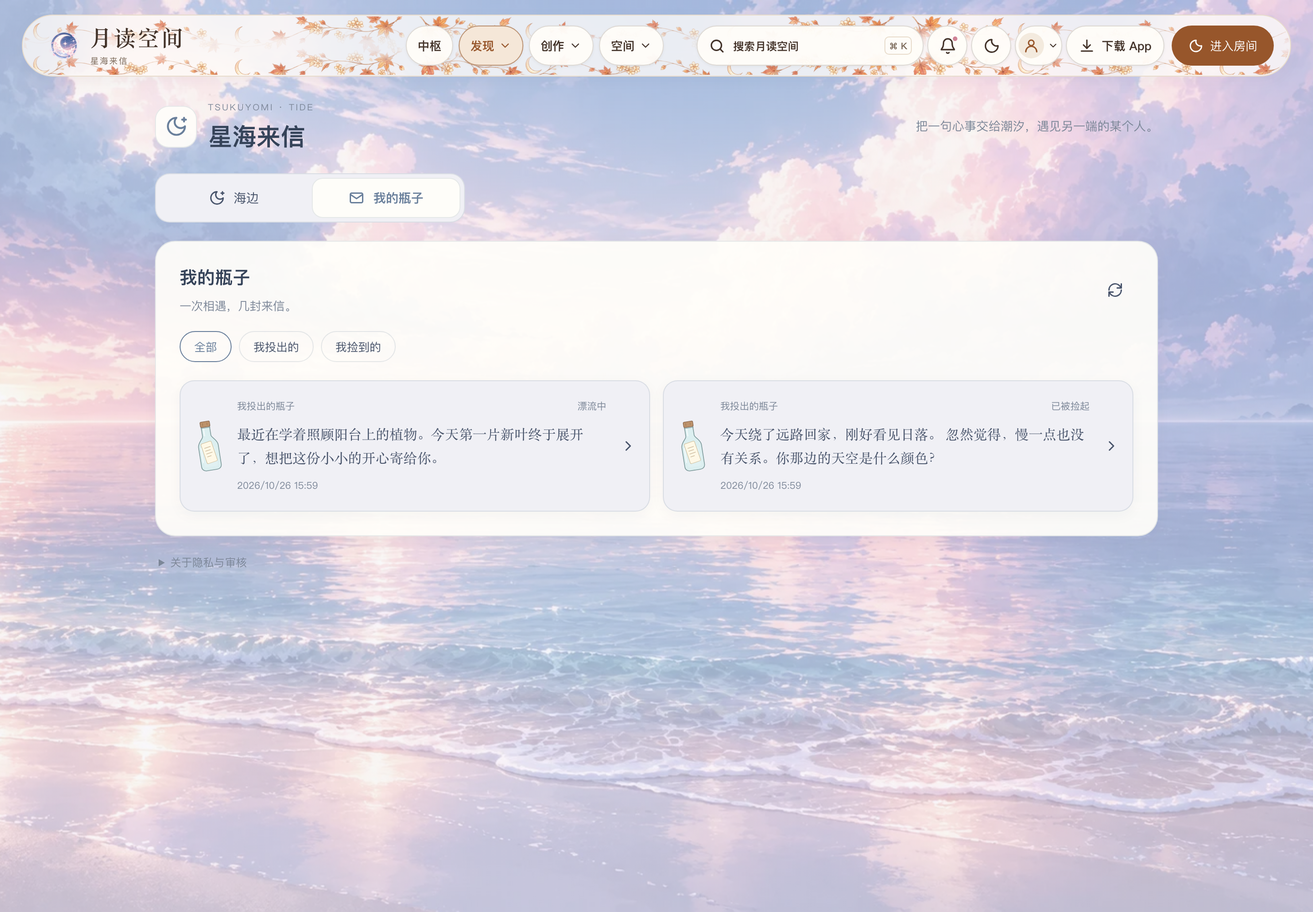
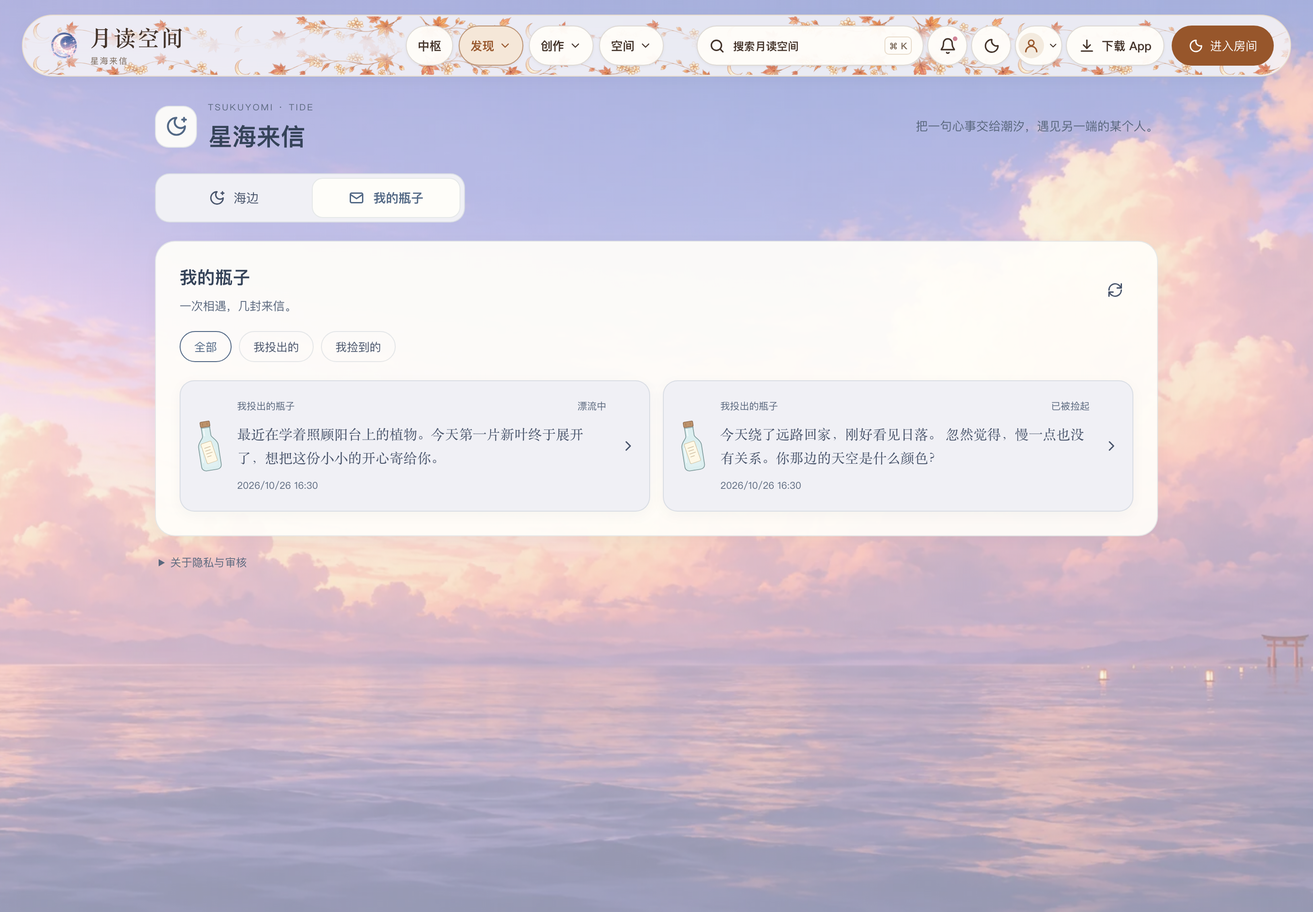
fix(drift): support light and dark shores with softer reflections

diff --git a/src/frontend/styles/routes/drift.css b/src/frontend/styles/routes/drift.css
@@ -1,10 +1,10 @@
-.page.drift-page { --drift-surface: var(--ts-editorial-surface,var(--ts-surface-strong)); --drift-soft: var(--ts-editorial-low,var(--ts-bg-soft)); --drift-paper: #fffaf0; --drift-paper-ink: #51483e; box-sizing: border-box; width: 100%; max-width: 1160px; margin: auto; padding: 110px 30px 36px; color: var(--ts-text); }
+.page.drift-page { --drift-surface: var(--ts-editorial-surface,var(--ts-surface-strong)); --drift-soft: var(--ts-editorial-low,var(--ts-bg-soft)); --drift-paper: #fffaf0; --drift-paper-sheet: #fffdf5; --drift-paper-ink: #51483e; --drift-paper-muted: #796750; --drift-paper-border: #b7a38355; --drift-paper-rule: #b7a38330; --drift-paper-reply: #ffffff80; --drift-paper-button: #fbf5e9; --drift-paper-hover: #eee4d2; --drift-paper-notice: #f3e9d8; --drift-paper-status: #86602d; --drift-paper-shadow: #cabca21a; --drift-action-ink: #fff; box-sizing: border-box; width: 100%; max-width: 1160px; margin: auto; padding: 110px 30px 36px; color: var(--ts-text); }
 .drift-page *, .drift-page *::before, .drift-page *::after { box-sizing: border-box; }
 .drift-page :is(h1,h2,h3,p) { margin: 0; }
 .drift-page button { display: inline-flex; align-items: center; justify-content: center; gap: 9px; min-height: 44px; padding: 10px 16px; border: 1px solid var(--ts-border); border-radius: 12px; background: var(--drift-surface); color: inherit; font: inherit; font-size: .86rem; cursor: pointer; }
 .drift-page button:hover:not(:disabled) { background: var(--drift-soft); }
 .drift-page button:disabled { opacity: .5; cursor: default; }
-.drift-page .drift-primary { border-color: transparent; background: var(--ts-accent); color: white; font-weight: 600; }
+.drift-page .drift-primary { border-color: transparent; background: var(--ts-accent); color: var(--drift-action-ink); font-weight: 600; }
 .drift-page .drift-primary:hover:not(:disabled) { background: color-mix(in srgb,var(--ts-accent),black 12%); }
 .drift-page :is(button,a,summary,textarea):focus-visible { outline: 2px solid var(--ts-accent); outline-offset: 3px; }
 .drift-header { display: flex; align-items: center; gap: 12px; margin-bottom: 22px; }
@@ -60,54 +60,54 @@
 .drift-rules { margin: 18px 4px 0; color: var(--ts-muted); font-size: .75rem; line-height: 1.8; }
 .drift-rules summary { cursor: pointer; width: fit-content; }
 .drift-rules p { max-width: 720px; margin-top: 10px; }
-.drift-bottle-dialog { width: min(570px,calc(100vw - 36px)); max-height: min(820px,calc(var(--ts-visual-height,100dvh) - 32px)); padding: 0; border: 1px solid #b9a99266; border-radius: 22px; background: var(--drift-paper); color: var(--drift-paper-ink); box-shadow: 0 25px 100px #18263c40; overflow: hidden; }
+.drift-bottle-dialog { --ts-text: var(--drift-paper-ink); --ts-text-strong: var(--drift-paper-ink); --ts-muted: var(--drift-paper-muted); width: min(570px,calc(100vw - 36px)); max-height: min(820px,calc(var(--ts-visual-height,100dvh) - 32px)); padding: 0; border: 1px solid var(--drift-paper-border); border-radius: 22px; background: var(--drift-paper); color: var(--drift-paper-ink); box-shadow: 0 25px 100px #18263c40; overflow: hidden; }
 .drift-bottle-dialog[open] { display: flex; flex-direction: column; }
 .drift-bottle-dialog::backdrop { background: #1c2c3e8c; backdrop-filter: blur(5px); }
-.drift-dialog-header { flex-shrink: 0; display: flex; justify-content: space-between; align-items: center; gap: 12px; padding: 22px 26px 17px; border-bottom: 1px solid #9c8b711f; }
+.drift-dialog-header { flex-shrink: 0; display: flex; justify-content: space-between; align-items: center; gap: 12px; padding: 22px 26px 17px; border-bottom: 1px solid var(--drift-paper-border); }
 .drift-dialog-header h2 { font-family: var(--ts-font-serif); font-weight: 500; font-size: 1.22rem; }
-.drift-dialog-header .drift-eyebrow { color: #9b8b76; font-size: .52rem; }
-.drift-bottle-dialog button:not(.drift-primary) { color: #685b49; background: #fbf5e9; border-color: #b9a99259; }
-.drift-bottle-dialog button:not(.drift-primary):hover:not(:disabled) { background: #eee4d2; }
+.drift-dialog-header .drift-eyebrow { color: var(--drift-paper-muted); font-size: .52rem; }
+.drift-bottle-dialog button:not(.drift-primary) { color: var(--drift-paper-ink); background: var(--drift-paper-button); border-color: var(--drift-paper-border); }
+.drift-bottle-dialog button:not(.drift-primary):hover:not(:disabled) { background: var(--drift-paper-hover); }
 .drift-bottle-dialog .drift-icon-button { border: 0; background: transparent; }
-.drift-dialog-notice { padding: 10px 25px; border-bottom: 1px solid #9c8b7126; background: #f3e9d8; color: #7f6845; font-size: .78rem; line-height: 1.6; }
+.drift-dialog-notice { padding: 10px 25px; border-bottom: 1px solid var(--drift-paper-border); background: var(--drift-paper-notice); color: var(--drift-paper-ink); font-size: .78rem; line-height: 1.6; }
 .drift-found { display: flex; flex-direction: column; align-items: center; gap: 25px; padding: 30px 30px 40px; text-align: center; }
-.drift-found p { font-size: .9rem; line-height: 1.8; color: #8e7d68; }
+.drift-found p { font-size: .9rem; line-height: 1.8; color: var(--drift-paper-muted); }
 .drift-found-glow { display: grid; place-items: center; width: 220px; height: 230px; border-radius: 50%; background: radial-gradient(ellipse,#fffdf6,#e6e0ce99 48%,transparent 70%); }
 .drift-found-glow > svg { width: 92px; height: 165px; transform: rotate(28deg); color: #789a99; filter: drop-shadow(0 10px 8px #89764e20); }
 .drift-letter-scroll { min-height: 0; overflow-y: auto; overscroll-behavior: contain; scrollbar-width: thin; padding: 22px 26px 15px; }
 .drift-letter-byline { display: flex; align-items: center; gap: 12px; margin-bottom: 18px; }
 .drift-letter-byline > svg { width: 24px; height: 44px; color: #88a39e; transform: rotate(-12deg); }
 .drift-letter-byline > div { display: grid; gap: 5px; flex: 1; min-width: 0; }
-.drift-letter-byline span { font-size: .8rem; overflow-wrap: anywhere; }.drift-letter-byline time { font-size: .65rem; color: #a18f77; }
-.drift-paper { min-height: 170px; padding: 22px 22px 25px; background: repeating-linear-gradient(transparent 0,transparent 35px,#b7a38321 35px,#b7a38321 36px),#fffdf5; border: 1px solid #b7a38336; border-radius: 3px 3px 13px 3px; box-shadow: 2px 4px 0 #cabca21a; }
+.drift-letter-byline span { font-size: .8rem; overflow-wrap: anywhere; }.drift-letter-byline time { font-size: .65rem; color: var(--drift-paper-muted); }
+.drift-paper { min-height: 170px; padding: 22px 22px 25px; background: repeating-linear-gradient(transparent 0,transparent 35px,var(--drift-paper-rule) 35px,var(--drift-paper-rule) 36px),var(--drift-paper-sheet); border: 1px solid var(--drift-paper-border); border-radius: 3px 3px 13px 3px; box-shadow: 2px 4px 0 var(--drift-paper-shadow); }
 .drift-content { white-space: pre-wrap; overflow-wrap: anywhere; font-family: var(--ts-font-serif); font-size: .98rem; line-height: 2.25; }
-.drift-thread-note { margin: 16px auto 0 !important; max-width: 340px; font-size: .78rem; line-height: 1.8; color: #95846d; text-align: center; }
+.drift-thread-note { margin: 16px auto 0 !important; max-width: 340px; font-size: .78rem; line-height: 1.8; color: var(--drift-paper-muted); text-align: center; }
 .drift-correspondence { margin-top: 28px; }
-.drift-correspondence > header { padding-bottom: 12px; border-bottom: 1px solid #b7a38336; }
-.drift-correspondence h3 { display: flex; align-items: baseline; gap: 10px; color: #8f7c62; font-size: .82rem; font-weight: 500; }
-.drift-correspondence h3 small { font-size: .7rem; opacity: .65; }
-.drift-reply { margin-top: 14px; padding: 17px 18px; border: 1px solid #c7bda83d; border-radius: 3px; background: #ffffff69; }
-.drift-reply header { display: flex; justify-content: space-between; align-items: baseline; gap: 10px; margin-bottom: 10px; color: #95846d; font-size: .73rem; }
+.drift-correspondence > header { padding-bottom: 12px; border-bottom: 1px solid var(--drift-paper-border); }
+.drift-correspondence h3 { display: flex; align-items: baseline; gap: 10px; color: var(--drift-paper-muted); font-size: .82rem; font-weight: 500; }
+.drift-correspondence h3 small { font-size: .7rem; }
+.drift-reply { margin-top: 14px; padding: 17px 18px; border: 1px solid var(--drift-paper-border); border-radius: 3px; background: var(--drift-paper-reply); }
+.drift-reply header { display: flex; justify-content: space-between; align-items: baseline; gap: 10px; margin-bottom: 10px; color: var(--drift-paper-muted); font-size: .73rem; }
 .drift-reply time { font-size: .62rem; }
 .drift-reply .drift-content { font-size: .9rem; line-height: 1.9; }
-.drift-letter-status { display: inline-block; margin-top: 12px; font-size: .7rem; color: #9b7340; }
-.drift-reader-footer { flex-shrink: 0; border-top: 1px solid #b7a38326; padding: 16px 26px 8px; }
+.drift-letter-status { display: inline-block; margin-top: 12px; font-size: .7rem; color: var(--drift-paper-status); }
+.drift-reader-footer { flex-shrink: 0; border-top: 1px solid var(--drift-paper-rule); padding: 16px 26px 8px; }
 .drift-letter-actions { display: flex; align-items: center; justify-content: space-between; gap: 14px; flex-shrink: 0; padding: 0 0 8px; }
 .drift-letter-actions > button { min-width: 112px; }
-.drift-privacy { display: block; flex-shrink: 0; text-align: center; font-size: .6rem; color: #a18f77; padding: 5px 15px 14px; }
-.drift-letter-options, .drift-translation { margin-top: 20px; color: #9b8b76; font-size: .7rem; line-height: 1.8; }
+.drift-privacy { display: block; flex-shrink: 0; text-align: center; font-size: .6rem; color: var(--drift-paper-muted); padding: 5px 15px 14px; }
+.drift-letter-options, .drift-translation { margin-top: 20px; color: var(--drift-paper-muted); font-size: .7rem; line-height: 1.8; }
 .drift-letter-options summary, .drift-translation summary { width: fit-content; cursor: pointer; }
 .drift-actions { display: flex; flex-wrap: wrap; gap: 8px; margin: 14px 0; }
 .drift-actions button, .drift-actions a { font-size: .75rem; }
 .drift-actions a { align-self: center; color: inherit; }
 .drift-translation > :not(summary) { margin-top: 10px; }
-.drift-page .drift-new-letter { display: flex; margin: 18px auto 0; font-size: .74rem; color: #8b7556; }
+.drift-page .drift-new-letter { display: flex; margin: 18px auto 0; font-size: .74rem; color: var(--drift-paper-muted); }
 .drift-letter-form { display: flex; flex-direction: column; min-height: 0; padding: 22px 26px 18px; gap: 18px; overflow-y: auto; }
-.drift-writing-paper { display: flex; flex-direction: column; padding: 20px; border: 1px solid #b7a38336; background: #fffdf5; }
-.drift-writing-paper label { font-family: var(--ts-font-serif); font-size: .87rem; color: #a18f77; margin-bottom: 16px; }
-.drift-writing-paper textarea { display: block; width: 100%; min-height: 170px; max-height: 42dvh; padding: 0; border: 0; border-radius: 0; outline: none; color: var(--drift-paper-ink); font-family: var(--ts-font-serif); font-size: 1rem; line-height: 2.1; resize: vertical; background: repeating-linear-gradient(transparent 0,transparent 32.6px,#b7a38326 32.6px,#b7a38326 33.6px); }
-.drift-writing-paper textarea::placeholder { color: #b2a38b; }.drift-writing-paper small { align-self: flex-end; margin-top: 10px; font-size: .65rem; color: #a18f77; }
-.drift-reply-context { flex-shrink: 0; margin: 0; padding: 0 0 0 12px; border-left: 2px solid #b7a38366; color: #a18f77; font-family: var(--ts-font-serif); font-size: .78rem; line-height: 1.8; overflow: hidden; display: -webkit-box; -webkit-line-clamp: 2; -webkit-box-orient: vertical; }
+.drift-writing-paper { display: flex; flex-direction: column; padding: 20px; border: 1px solid var(--drift-paper-border); background: var(--drift-paper-sheet); }
+.drift-writing-paper label { font-family: var(--ts-font-serif); font-size: .87rem; color: var(--drift-paper-muted); margin-bottom: 16px; }
+.drift-writing-paper textarea { display: block; width: 100%; min-height: 170px; max-height: 42dvh; padding: 0; border: 0; border-radius: 0; outline: none; color: var(--drift-paper-ink); font-family: var(--ts-font-serif); font-size: 1rem; line-height: 2.1; resize: vertical; background: repeating-linear-gradient(transparent 0,transparent 32.6px,var(--drift-paper-rule) 32.6px,var(--drift-paper-rule) 33.6px); }
+.drift-writing-paper textarea::placeholder { color: var(--drift-paper-muted); }.drift-writing-paper small { align-self: flex-end; margin-top: 10px; font-size: .65rem; color: var(--drift-paper-muted); }
+.drift-reply-context { flex-shrink: 0; margin: 0; padding: 0 0 0 12px; border-left: 2px solid var(--drift-paper-border); color: var(--drift-paper-muted); font-family: var(--ts-font-serif); font-size: .78rem; line-height: 1.8; overflow: hidden; display: -webkit-box; -webkit-line-clamp: 2; -webkit-box-orient: vertical; }
 .drift-notice { padding: 12px 16px; margin-bottom: 14px !important; border: 1px solid var(--ts-border); border-radius: 12px; background: var(--drift-surface); font-size: .8rem; line-height: 1.7; }
 .drift-loading { padding: 35px; text-align: center; color: var(--ts-muted); }.drift-login { display: flex; justify-content: space-between; color: var(--ts-accent); text-decoration: none; }
 body:has(.drift-bottle-dialog[open]) { overflow: hidden; }
@@ -142,17 +142,32 @@ body:has(.drift-bottle-dialog[open]) :is(.site-pet-wrap,.site-music-drawer) { vi
 .is-keyboard-open .drift-bottle-dialog.is-writing .drift-reply-context { display: none; }
 
 /* Original fan background: a shore facing the film's rose/lavender mirror sea. */
-.page.drift-page { --ts-accent: #697f9b; --ts-text: #48546b; --ts-text-strong: #354359; --ts-muted: #7c8798; --ts-border: #75899d2e; --drift-surface: #fffefaed; --drift-soft: #f0f0f5; }
+.page.drift-page { --ts-accent: #526885; --ts-text: #48546b; --ts-text-strong: #354359; --ts-muted: #59677d; --ts-border: #75899d2e; --drift-surface: #fffefaed; --drift-soft: #f0f0f5; }
 .app-shell:has(.drift-page) { --ts-site-background: linear-gradient(rgb(244 243 249 / 50%),rgb(242 242 249 / 50%)),url('../../assets/drift/mirror-coast.webp') center / cover no-repeat; }
 .drift-ocean { background: linear-gradient(180deg,#e8eafa14,transparent 50%),url('../../assets/drift/mirror-coast.webp') center / cover no-repeat; }
 .drift-ocean-sky, .drift-ocean-beach, .drift-moonlight, .drift-wave { display: none; }
 .drift-ocean-water { inset: 0; border: 0; background: none; z-index: -1; }
-.drift-floating-bottle { bottom: 23%; left: 47%; width: 32px; height: 57px; }
-.drift-ocean-copy { color: #3c4964; text-shadow: 0 1px 14px #fff4e6a6; }
-.drift-ocean-copy .drift-eyebrow { color: #65718b; }
+.drift-floating-bottle { bottom: 12%; left: 85%; width: 26px; height: 46px; }
+.drift-ocean-copy { width: fit-content; max-width: 100%; border-radius: 0 0 28px 0; background: #fff8eeeb; color: #3c4964; text-shadow: none; }
+.drift-ocean-copy .drift-eyebrow { color: #58647c; }
 .drift-ocean-copy > p:last-child { color: #58647c; }
 .drift-shore-dock { background: #fff8eece; border-color: #fff9f2bd; }
-html[data-theme="dark"] .page.drift-page { --ts-text: #e0e3ee; --ts-text-strong: #f0edf6; --ts-muted: #a5b0c2; --ts-border: #b4bfdf29; --drift-surface: #222b3bed; --drift-soft: #293145; }
-html[data-theme="dark"] .app-shell:has(.drift-page) { --ts-site-background: linear-gradient(#192438ed,#202c42f0),url('../../assets/drift/mirror-coast.webp') center / cover no-repeat; }
+html[data-theme="dark"] .page.drift-page { --ts-accent: #b5cbe6; --drift-action-ink: #182334; --drift-paper: #1d2839; --drift-paper-sheet: #243247; --drift-paper-ink: #eee8dc; --drift-paper-muted: #c1c5cf; --drift-paper-border: #b8c7dc44; --drift-paper-rule: #b8c7dc1c; --drift-paper-reply: #263448; --drift-paper-button: #2b3a50; --drift-paper-hover: #35485f; --drift-paper-notice: #354054; --drift-paper-status: #e4c597; --drift-paper-shadow: #080f192e; --ts-text: #e0e3ee; --ts-text-strong: #f0edf6; --ts-muted: #a5b0c2; --ts-border: #b4bfdf29; --drift-surface: #222b3bed; --drift-soft: #293145; }
+html[data-theme="dark"] .app-shell:has(.drift-page) { --ts-site-background: linear-gradient(#101a2c80,#101a2c99),url('../../assets/drift/mirror-coast-night.webp') center / cover no-repeat; }
 
 body:has(.drift-page) :is(.site-pet-wrap,.site-music-drawer) { visibility: hidden; pointer-events: none; }
+
+/* Night artwork and controls share the same theme as the collection and letters. */
+html[data-theme="dark"] .drift-ocean { background: url('../../assets/drift/mirror-coast-night.webp') center / cover no-repeat; border-color: #b4bfdf44; }
+html[data-theme="dark"] .drift-ocean-copy { background: #152238eb; color: #e8edf7; }
+html[data-theme="dark"] .drift-ocean-copy :is(h2,p) { color: inherit; }
+html[data-theme="dark"] .drift-ocean-copy .drift-eyebrow { color: #b9c8df; }
+html[data-theme="dark"] .drift-shore-dock { background: #1d2b40ed; border-color: #b4bfdf44; }
+html[data-theme="dark"] .drift-page .drift-dock-action { color: #e0e7f3; }
+html[data-theme="dark"] .drift-page .drift-dock-action:hover:not(:disabled) { background: #34445b; }
+html[data-theme="dark"] .drift-dock-icon { color: #b5cce1; }
+html[data-theme="dark"] .drift-dock-pick .drift-dock-icon { color: #e2c68d; background: radial-gradient(ellipse,#d5b66b26,transparent 70%); }
+html[data-theme="dark"] .drift-found-glow { background: radial-gradient(ellipse,#50698080,#30465f55 48%,transparent 70%); }
+
+/* The low horizon leaves the phone shore to the action dock. */
+@media (max-width: 860px) { .drift-floating-bottle { display: none; } }

diff --git a/tests/e2e/drift-themes.spec.js b/tests/e2e/drift-themes.spec.js
@@ -1,0 +1,85 @@
+const { test, expect } = require('../e2e-fixtures.cjs');
+
+async function switchTheme(page, mode) {
+    const label = mode === 'dark' ? '切换深色主题' : '切换浅色主题';
+    const toolbar = page.locator('.site-theme-button');
+    if (await toolbar.isVisible()) await toolbar.click();
+    else {
+        await page.getByRole('button', { name: '账号菜单', exact: true }).click();
+        await page.locator('#site-navigation').getByRole('button', { name: label, exact: true }).click();
+        await page.locator('#site-navigation .site-nav-drawer-head button').click();
+    }
+    await expect(page.locator('html')).toHaveAttribute('data-theme', mode);
+}
+
+async function contrast(foreground, background, pseudo) {
+    return foreground.evaluate((node, { selector, pseudo }) => {
+        const rgb = value => value.match(/[\d.]+/g).slice(0, 3).map(Number);
+        const luminance = value => rgb(value).map(v => {
+            v /= 255;
+            return v <= 0.04045 ? v / 12.92 : ((v + 0.055) / 1.055) ** 2.4;
+        }).reduce((sum, v, i) => sum + v * [0.2126, 0.7152, 0.0722][i], 0);
+        const ink = luminance(getComputedStyle(node, pseudo).color);
+        const paper = luminance(getComputedStyle(node.closest(selector)).backgroundColor);
+        return (Math.max(ink, paper) + 0.05) / (Math.min(ink, paper) + 0.05);
+    }, { selector: background, pseudo });
+}
+
+test('light and dark shores, letters and drafts follow the selected theme', async ({ page, browser, baseURL }, info) => {
+    test.setTimeout(45_000);
+    const headers = { Origin: new URL(baseURL).origin, 'X-Requested-With': 'XMLHttpRequest' };
+    const sender = await browser.newContext({ baseURL });
+    const login = async (request, username) => {
+        expect((await request.post('/api/auth/login', { headers, data: { username, password: 'mem0-test-password' } })).ok()).toBe(true);
+    };
+    let id;
+    const content = `今天海边很安静，想听听远方的声音。 ${info.project.name}-${Date.now()}`;
+    try {
+        await login(sender.request, 'reply-owner');
+        const sent = await sender.request.post('/api/drift', { headers, data: { content } });
+        expect(sent.status()).toBe(201);
+        id = (await sent.json()).data.id;
+        await login(page.request, 'reply-reader');
+        const picked = await page.request.post('/api/drift/pick', { headers, data: {} });
+        expect((await picked.json()).data.id).toBe(id);
+        expect((await page.request.post(`/api/drift/${id}/replies`, { headers, data: { content: '这边也起风了。愿你今晚睡个好觉。' } })).status()).toBe(201);
+        await page.addInitScript(() => { localStorage.setItem('lang', 'zh'); localStorage.setItem('tsukuyomi_theme', 'light'); });
+        await page.goto('/drift');
+        await expect(page.locator('#boot-splash')).toHaveCount(0);
+        const draft = '还没寄出的心事，切换主题以后继续写。';
+        let dayImage;
+        for (const mode of ['light', 'dark', 'light']) {
+            if (await page.locator('html').getAttribute('data-theme') !== mode) await switchTheme(page, mode);
+            const artwork = await page.locator('.drift-ocean').evaluate(async node => {
+                const style = getComputedStyle(node);
+                const url = style.backgroundImage.match(/url\(["']?([^"')]+)/)[1];
+                const image = new Image(); image.src = url; await image.decode();
+                return { url, width: image.naturalWidth };
+            });
+            expect(artwork.width).toBeGreaterThan(1000);
+            if (mode === 'light') {
+                if (!dayImage) dayImage = artwork.url;
+                expect(artwork.url).toBe(dayImage);
+            } else expect(artwork.url).not.toBe(dayImage);
+            await page.getByRole('tab', { name: '我的瓶子', exact: true }).click();
+            await page.locator('.drift-list-item').filter({ hasText: content }).click();
+            await expect(page.locator('.drift-original-paper')).toHaveText(content);
+            await expect(page.locator('.drift-reply')).toContainText('愿你今晚睡个好觉。');
+            expect(await contrast(page.locator('.drift-original-paper .drift-content'), '.drift-paper')).toBeGreaterThanOrEqual(4.5);
+            expect(await contrast(page.locator('.drift-letter-byline time'), '.drift-bottle-dialog')).toBeGreaterThanOrEqual(4.5);
+            expect(await contrast(page.locator('.drift-reader-footer .drift-primary'), '.drift-primary')).toBeGreaterThanOrEqual(4.5);
+            await page.getByRole('button', { name: '关闭纸条', exact: true }).click();
+            await page.getByRole('tab', { name: '海边', exact: true }).click();
+            await page.getByRole('button', { name: '扔一个', exact: true }).click();
+            if (!await page.locator('#drift-draft').inputValue()) await page.locator('#drift-draft').fill(draft);
+            await expect(page.locator('#drift-draft')).toHaveValue(draft);
+            expect(await contrast(page.locator('#drift-draft'), '.drift-writing-paper')).toBeGreaterThanOrEqual(4.5);
+            expect(await contrast(page.locator('#drift-draft'), '.drift-writing-paper', '::placeholder')).toBeGreaterThanOrEqual(4.5);
+            await page.getByRole('button', { name: '取消', exact: true }).click();
+        }
+        expect(await page.evaluate(() => document.documentElement.scrollWidth > innerWidth)).toBe(false);
+    } finally {
+        if (id) await sender.request.post(`/api/drift/${id}/close`, { headers, data: {} });
+        await sender.close();
+    }
+});

diff --git a/playwright.config.js b/playwright.config.js
@@ -24,12 +24,12 @@ module.exports = defineConfig({
         },
         {
             name: 'chromium-mobile',
-            testMatch: /(?:drift-keyboard|scroll-motion|access-transition|room-entry|site-knowledge|article-sharing|pixel-mobile-canvas|room-feedback|game-center|kaguya-ride|upload-ui|attachment-upload)\.spec\.js/,
+            testMatch: /(?:drift-keyboard|drift-themes|scroll-motion|access-transition|room-entry|site-knowledge|article-sharing|pixel-mobile-canvas|room-feedback|game-center|kaguya-ride|upload-ui|attachment-upload)\.spec\.js/,
             use: { ...devices['Pixel 7'], channel: process.env.PW_CHANNEL || undefined }
         },
         {
             name: 'webkit-mobile',
-            testMatch: /(?:drift-keyboard|scroll-motion|access-transition|room-entry|site-knowledge|github-oauth|qq-binding|partner-oauth|route-return|access-i18n|gallery-liked-feedback|room-oneclick-tts|room-gpt-sovits-remote|room-mobile-(?:keyboard|scene)|room-season-scene|room-settings-redesign|room-model-catalog|room-model-runtime|room-reading-recording|room-images-article-replies|room-feedback|game-center|kaguya-ride|upload-ui|attachment-upload|article-loading|article-jump|article-sharing|pixel-mobile-canvas|unified-navigation|directed-replies|user-nickname|search-password-forms|netease-music)\.spec\.js/,
+            testMatch: /(?:drift-keyboard|drift-themes|scroll-motion|access-transition|room-entry|site-knowledge|github-oauth|qq-binding|partner-oauth|route-return|access-i18n|gallery-liked-feedback|room-oneclick-tts|room-gpt-sovits-remote|room-mobile-(?:keyboard|scene)|room-season-scene|room-settings-redesign|room-model-catalog|room-model-runtime|room-reading-recording|room-images-article-replies|room-feedback|game-center|kaguya-ride|upload-ui|attachment-upload|article-loading|article-jump|article-sharing|pixel-mobile-canvas|unified-navigation|directed-replies|user-nickname|search-password-forms|netease-music)\.spec\.js/,
             use: { ...devices['iPhone 13'] }
         }
     ],

diff --git a/src/frontend/data/driftCopy.js b/src/frontend/data/driftCopy.js
@@ -38,7 +38,7 @@ export const driftCopy = {
     "followed": "已关注；互相关注后可以继续保持联系。",
     "sea": "海边",
     "navigation": "星海来信导航",
-    "seaTitle": "总有一句话，会漂向你",
+    "seaTitle": "写下心事，也听听远方的声音",
     "seaHint": "用漂流瓶传递心事，让一张纸条漂向远方。",
     "rules": "关于隐私与审核",
     "all": "全部",
@@ -115,7 +115,7 @@ export const driftCopy = {
     "followed": "Following. You can follow each other to keep in touch.",
     "sea": "Shore",
     "navigation": "Bottle navigation",
-    "seaTitle": "A little thought will find its shore",
+    "seaTitle": "Share a thought. Hear from another shore.",
     "seaHint": "Send a message in a bottle, and let a little note find a distant shore.",
     "rules": "Privacy & moderation",
     "all": "All",
@@ -192,7 +192,7 @@ export const driftCopy = {
     "followed": "フォローしました。相互フォローでつながれます。",
     "sea": "海辺",
     "navigation": "漂流瓶のナビゲーション",
-    "seaTitle": "いつか、誰かの言葉が届く",
+    "seaTitle": "想いをつづり、遠くの声に耳をすます",
     "seaHint": "漂流瓶に想いをつめて、小さな手紙を遠くの岸へ。",
     "rules": "プライバシーと審査",
     "all": "すべて",

diff --git a/src/frontend/assets/drift/README.md b/src/frontend/assets/drift/README.md
@@ -1,7 +1,9 @@
 # Mirror coast
 
-`mirror-coast.webp` is an original AI-assisted fan landscape created for the
-Tsukuyomi Space bottle shore. It is not a frame from the film.
+`mirror-coast.webp` (pastel dusk) and `mirror-coast-night.webp` (meteor night)
+are original AI-assisted fan landscapes for the Starlit Letters bottle shore.
+They are not frames from the film. The page selects the matching image for
+light or dark mode; no JavaScript theme-specific image loader is needed.
 
 Visual references inspected during design:
 - Cosmic Princess Kaguya's reflective lavender/rose sea and cumulus-cloud scene:
@@ -9,10 +11,18 @@ Visual references inspected during design:
 - Official Starfalling Sea MV announcement / cyan water-light reference:
   https://x.com/Cho_KaguyaHime/status/2001623485269921797
 
-Composition: standing on the shore looking out, a quiet near shoreline, a low
-horizon, soft blue/lilac/pink clouds reflected in calm water. No characters or
-text are embedded in the background. Bottle objects and controls are separate.
+Composition: a broad open sky above quiet, low-horizon shallow water. The light
+variant uses peach-pink clouds and lavender sky; the dark variant uses deep blue
+clouds with a sparse meteor shower. A small distant torii and a few warm lanterns
+remain near the right horizon. No characters, foreground lantern field or text
+are embedded in the backgrounds. Bottle objects and controls are separate.
 
-Original generated master is retained in the execution workspace under
-`/workspace/generated_images/exec-f9585801-7a08-44b0-addd-09b82d45ec09.png`.
-The WebP only changes the file encoding for web delivery.
+The current pair was created with the built-in `image_gen` tool, using the
+operator's supplied film stills as references for sky color, clouds and meteor
+trails. Screenshot chrome, logos, watermarks and characters were not used in
+the delivery composition. Water reflections are subdued and diffuse. The WebP
+files only change the encoding for web delivery (quality 88).
+
+Exact final prompts and generated-master filenames are recorded in
+[prompts.json](prompts.json). Masters remain in the local generated-image archive;
+only the delivery assets are required at runtime.

diff --git a/docs/screenshots/drift/README.md b/docs/screenshots/drift/README.md
@@ -10,6 +10,12 @@
 
 ![星海来信海边](shore-desktop.png)
 
+## 海边 · 深色主题
+
+独立的深蓝流星夜空，降低海面高光，仅保留少量远处灯笼；操作栏和正文随站点主题切换。
+
+![星海来信夜间海边](shore-dark-desktop.png)
+
 ## 我的瓶子 · 桌面
 
 已领取的往来纸条与仍在海上漂流的瓶子。
@@ -21,6 +27,12 @@
 390 × 844 CSS 像素，展示原文、两封回信及回应入口；这是浏览器视口截图。
 
 <img src="letter-mobile.png" alt="纸条与回信" width="390">
+
+## 纸条往来 · 深色主题
+
+信纸、回信、输入框与按钮同步使用深色配色。
+
+<img src="letter-dark-mobile.png" alt="深色纸条与回信" width="390">
 
 ## 内容管理 · 桌面
 
